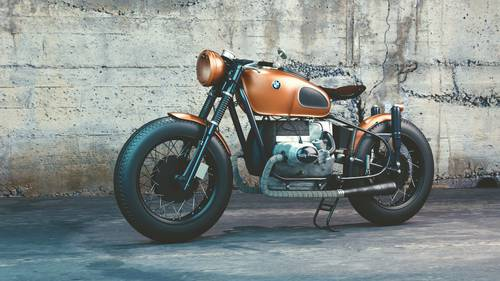
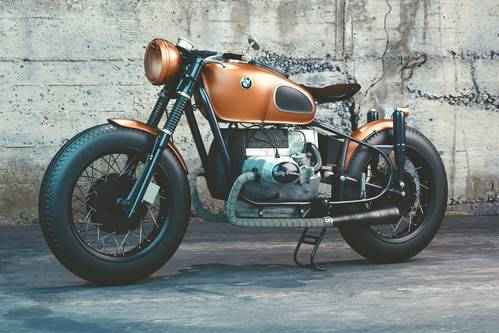
Commit with Gulp
initial commit

diff --git a/index.html b/index.html
@@ -26,7 +26,7 @@
       
           <div class="col-5 header__left">
              <div class="svg_container">
-                <img class="header__logo" src="images_src/udacity.svg" alt="Udacity U logo" />
+                <img class="header__logo" src="images/udacity.svg" alt="Udacity U logo" />
               </div>
           </div>
           <div class="col-7 header__right">
@@ -91,9 +91,9 @@
         <div class="col-4 col__flex">
             
             <picture class="picture__set"> 
-                <source srcset="images/coding-500px.jpg" media="(min-width: 800px)">
-                <source srcset="images/coding-200px.jpg" media="(max-width: 400px)">
-                <img src="images/coding-630px.jpg" alt="Coding">
+                <source srcset="images/caferacer-500px.jpg" media="(min-width: 800px)">
+                <source srcset="images/caferacer-200px.jpg" media="(max-width: 400px)">
+                <img src="images/caferacer-630px.jpg" alt="Coding">
             </picture>
             <h3 class="work__title">Bokeh</h3>
             <a href="http://github.com/Bokeh">http://github.com/Bokeh</a>
